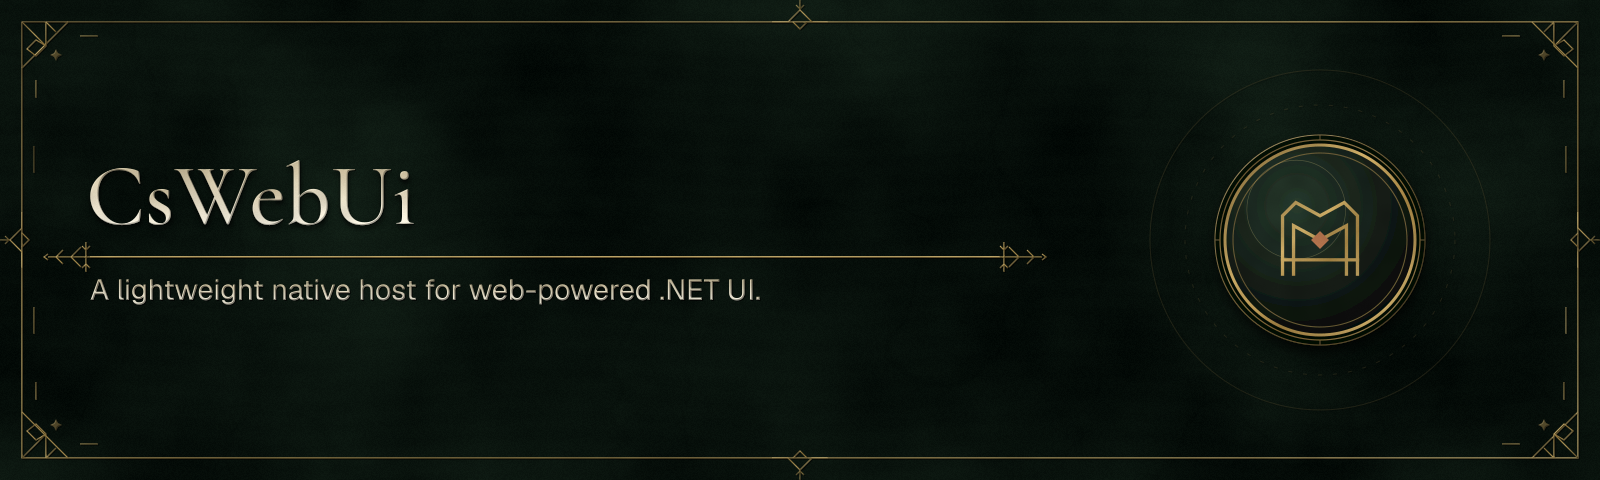
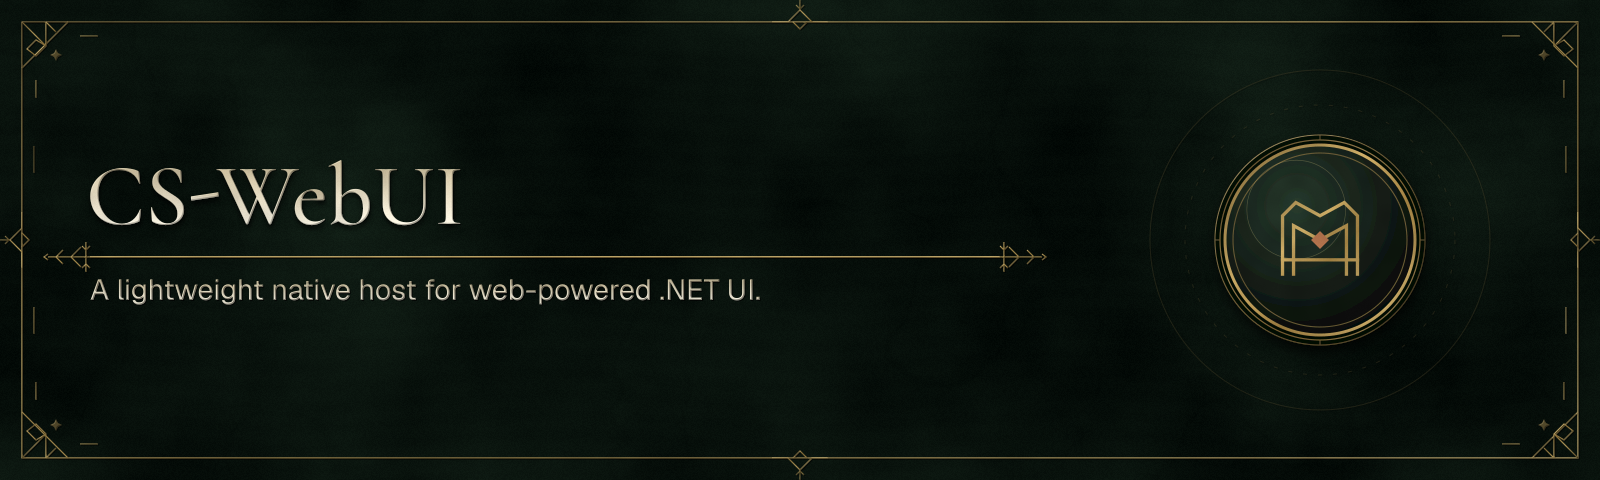
docs: use CS-WebUI display branding (#10)

Changed region(s): [[0.0938, 0.3438, 0.2812, 0.4688]]

diff --git a/RELEASING.md b/RELEASING.md
@@ -1,6 +1,6 @@
-# Releasing CsWebUi
+# Releasing CS-WebUI
 
-CsWebUi already publishes its two NuGet packages through the `NuGet Gallery`
+CS-WebUI already publishes its two NuGet packages through the `NuGet Gallery`
 workflow when a GitHub release is published. Its nuget.org trusted-publisher
 policy is bound to `.github/workflows/nuget-gallery.yml` and the `nuget`
 environment; keep that workflow identity until the registry policy is migrated
@@ -8,12 +8,12 @@ deliberately.
 
 Before publishing a release, verify that the release tag exactly matches the
 project package version, all package and NativeAOT checks pass, and the `nuget`
-environment variable `NUGET_USER` names the nuget.org account. CsWebUi can keep
+environment variable `NUGET_USER` names the nuget.org account. CS-WebUI can keep
 releasing independently of the Runic Toolkit package family.
 
 ## Updating the official WebUI nightly
 
-WebUI's `nightly` release tag and assets are mutable. CsWebUi therefore pins
+WebUI's `nightly` release tag and assets are mutable. CS-WebUI therefore pins
 the release's source commit and every archive SHA-256 in
 `eng/webui-nightly-assets.json`. The bootstrap fails closed when the upstream
 release moves; never weaken or skip that check to make a release pass.

diff --git a/README.md b/README.md
@@ -1,4 +1,4 @@
-![CsWebUi banner](https://raw.githubusercontent.com/Runic-Artifex/cs-webui/main/.github/assets/brand/banner.png)
+![CS-WebUI banner](https://raw.githubusercontent.com/Runic-Artifex/cs-webui/main/.github/assets/brand/banner.png)
 
 <div align="center">
 
